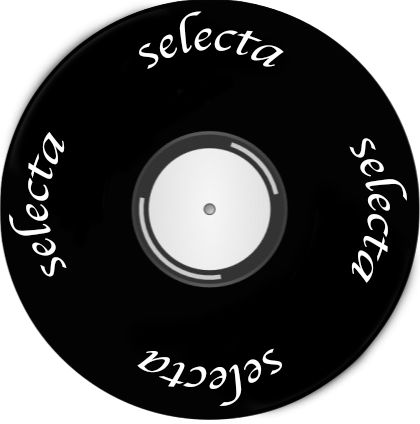
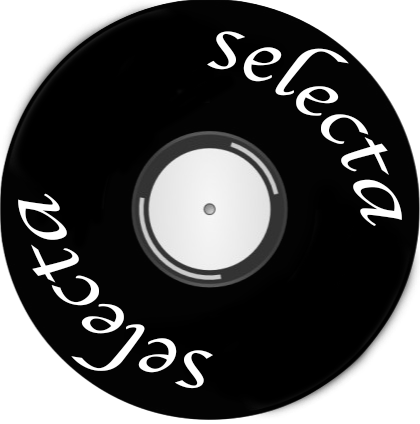
moving like button record

diff --git a/app/public/javascript/main.js b/app/public/javascript/main.js
@@ -25,3 +25,10 @@ function handler(e){
 document.addEventListener("click", handler, true);
 
 
+$('.wrap').on('mouseover', function() {
+  $(this).find('img').attr('src', 'img/vinyl2.png');
+});
+
+$('.wrap').on('mouseout', function() {
+  $(this).find('img').attr('src', 'img/vinyl1.png');
+});

diff --git a/app/public/css/main.css b/app/public/css/main.css
@@ -102,16 +102,12 @@ main {
   margin: auto;
 }
 
-#vinyl {
+.vinyl {
   width: 33px;
   float: left;
 }
 
-#vinyl:hover {
-  src: 'img/vinyl2.png';
-  width: 33px;
-  float: left;
-}
+
 
 #logo {
   margin-top: 18px;
